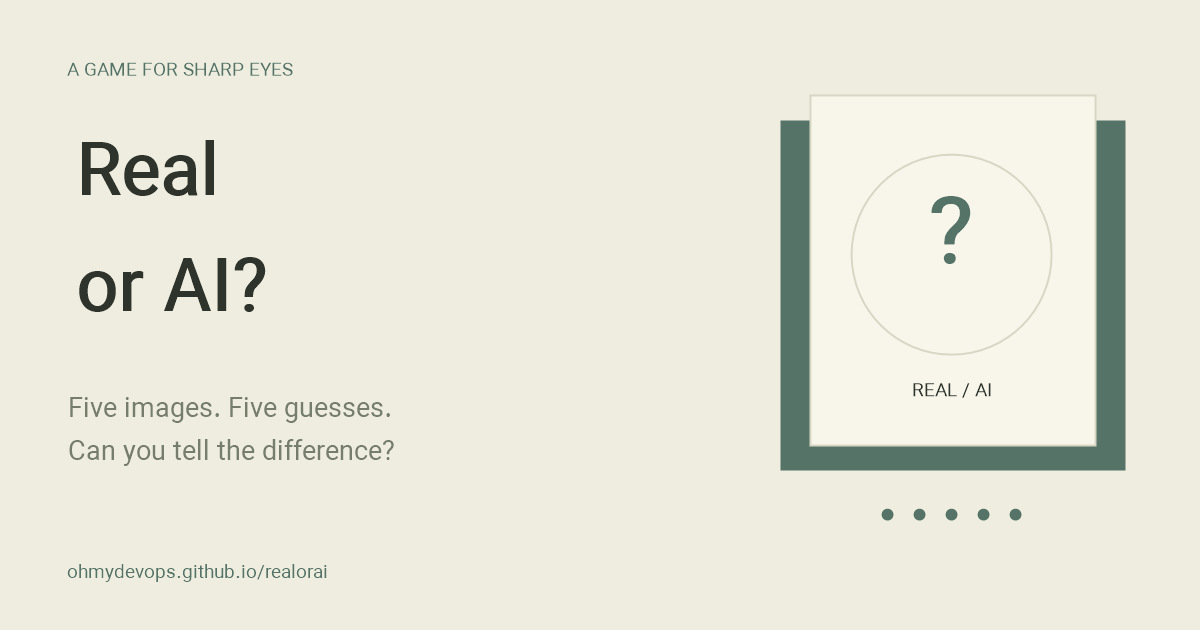
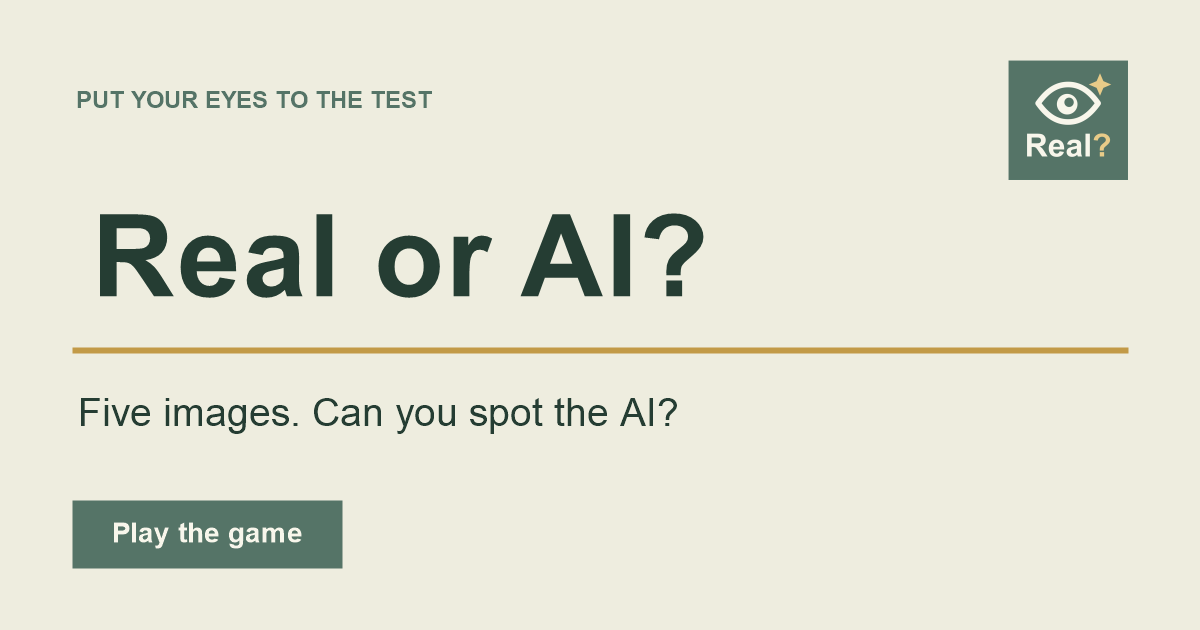
Improve sharing-card readability and remove unused code

diff --git a/public/translations.js b/public/translations.js
@@ -17,7 +17,6 @@ window.QUIZ_TRANSLATIONS = {
     start: 'Start game',
     round: 'Image',
     of: 'of',
-    question: 'Real or AI?',
     real: 'Real',
     ai: 'AI',
     loading: 'Loading image…',
@@ -25,8 +24,6 @@ window.QUIZ_TRANSLATIONS = {
     skip: 'Skip',
     failed: 'Image unavailable.',
     results: 'Your results',
-    chose: 'Your answer',
-    actual: 'Correct answer',
     correct: 'Correct',
     wrong: 'Incorrect',
     next: 'Next test',
@@ -59,7 +56,6 @@ window.QUIZ_TRANSLATIONS = {
     start: 'شروع بازی',
     round: 'عکس',
     of: 'از',
-    question: 'واقعی یا هوش مصنوعی؟',
     real: 'یَره ای واقعیه که',
     ai: 'به AI مُخُره به نَظَرُم',
     loading: 'عکس داره میاد…',
@@ -67,8 +63,6 @@ window.QUIZ_TRANSLATIONS = {
     skip: 'اینو رد کن',
     failed: 'ای عکس باز نشد.',
     results: 'چندتاشو درست زدی؟',
-    chose: 'پاسخ شما',
-    actual: 'پاسخ درست',
     correct: 'درست زدی',
     wrong: 'اشتباه زدی',
     next: 'یه دور دیگه',

diff --git a/public/sources/index.html b/public/sources/index.html
@@ -34,7 +34,7 @@
     <meta property="og:image:height" content="630" />
     <meta
       property="og:image:alt"
-      content="واقعیه یا هوش مصنوعیه؟ پنج تا عکس، پنج تا حدس، در کنار یک کارت با علامت سؤال."
+      content="واقعیه یا هوش مصنوعیه؟ عنوان درشت، نشان چشم و ستاره و دعوت به شروع بازی."
     />
     <meta name="twitter:card" content="summary_large_image" />
     <meta name="twitter:title" content="منبع عکسها | Real or AI?" />
@@ -48,7 +48,7 @@
     />
     <meta
       name="twitter:image:alt"
-      content="واقعیه یا هوش مصنوعیه؟ پنج تا عکس، پنج تا حدس، در کنار یک کارت با علامت سؤال."
+      content="واقعیه یا هوش مصنوعیه؟ عنوان درشت، نشان چشم و ستاره و دعوت به شروع بازی."
     />
     <link rel="icon" href="../favicon.svg" type="image/svg+xml" />
     <link rel="icon" href="../favicon-32.png" type="image/png" sizes="32x32" />

diff --git a/public/fa/index.html b/public/fa/index.html
@@ -67,7 +67,7 @@
     <meta property="og:image:height" content="630" />
     <meta
       property="og:image:alt"
-      content="واقعیه یا هوش مصنوعیه؟ پنج تا عکس، پنج تا حدس، در کنار یک کارت با علامت سؤال."
+      content="واقعیه یا هوش مصنوعیه؟ عنوان درشت، نشان چشم و ستاره و دعوت به شروع بازی."
     />
     <meta name="twitter:card" content="summary_large_image" />
     <meta
@@ -84,7 +84,7 @@
     />
     <meta
       name="twitter:image:alt"
-      content="واقعیه یا هوش مصنوعیه؟ پنج تا عکس، پنج تا حدس، در کنار یک کارت با علامت سؤال."
+      content="واقعیه یا هوش مصنوعیه؟ عنوان درشت، نشان چشم و ستاره و دعوت به شروع بازی."
     />
     <link rel="icon" href="../favicon.svg" type="image/svg+xml" />
     <link rel="icon" href="../favicon-32.png" type="image/png" sizes="32x32" />

diff --git a/public/index.html b/public/index.html
@@ -67,7 +67,7 @@
     <meta property="og:image:height" content="630" />
     <meta
       property="og:image:alt"
-      content="واقعیه یا هوش مصنوعیه؟ پنج تا عکس، پنج تا حدس، در کنار یک کارت با علامت سؤال."
+      content="واقعیه یا هوش مصنوعیه؟ عنوان درشت، نشان چشم و ستاره و دعوت به شروع بازی."
     />
     <meta name="twitter:card" content="summary_large_image" />
     <meta
@@ -84,7 +84,7 @@
     />
     <meta
       name="twitter:image:alt"
-      content="واقعیه یا هوش مصنوعیه؟ پنج تا عکس، پنج تا حدس، در کنار یک کارت با علامت سؤال."
+      content="واقعیه یا هوش مصنوعیه؟ عنوان درشت، نشان چشم و ستاره و دعوت به شروع بازی."
     />
     <link rel="icon" href="favicon.svg" type="image/svg+xml" />
     <link rel="icon" href="favicon-32.png" type="image/png" sizes="32x32" />

diff --git a/public/style.css b/public/style.css
@@ -93,9 +93,6 @@ a {
   font-size: 12px;
   text-decoration: none;
 }
-#theme-toggle {
-  font-size: 20px;
-}
 main {
   flex: 1;
   min-height: 0;
@@ -205,9 +202,6 @@ nav #settings-open {
   color: var(--muted);
   font-size: 13px;
   flex-shrink: 0;
-}
-#load-actions:empty {
-  display: none;
 }
 .image p {
   position: absolute;
@@ -330,6 +324,8 @@ a:focus-visible {
   flex-shrink: 0;
 }
 footer {
+  flex-wrap: wrap;
+  row-gap: 4px;
   width: calc(100% - 32px);
   max-width: 668px;
   margin-inline: auto;
@@ -531,11 +527,6 @@ dialog p {
   object-fit: cover;
   border-radius: 3px;
 }
-footer {
-  flex-wrap: wrap;
-  row-gap: 4px;
-}
-
 /* Keep the shared title and compact controls consistent across pages. */
 .brand {
   display: inline-flex;
@@ -606,9 +597,6 @@ nav #theme-toggle {
 @media (max-width: 380px) {
   header {
     gap: 8px;
-  }
-  header h1 {
-    font-size: 16px;
   }
 }
 @media (max-width: 600px) {

diff --git a/public/en/index.html b/public/en/index.html
@@ -67,7 +67,7 @@
     <meta property="og:image:height" content="630" />
     <meta
       property="og:image:alt"
-      content="Real or AI? Five images, five guesses, beside an illustrated question card."
+      content="Real or AI? A large title, an eye-and-sparkle logo, and an invitation to play."
     />
     <meta name="twitter:card" content="summary_large_image" />
     <meta name="twitter:title" content="Real or AI? | Five-image photo quiz" />
@@ -81,7 +81,7 @@
     />
     <meta
       name="twitter:image:alt"
-      content="Real or AI? Five images, five guesses, beside an illustrated question card."
+      content="Real or AI? A large title, an eye-and-sparkle logo, and an invitation to play."
     />
     <link rel="icon" href="../favicon.svg" type="image/svg+xml" />
     <link rel="icon" href="../favicon-32.png" type="image/png" sizes="32x32" />

diff --git a/public/en/sources/index.html b/public/en/sources/index.html
@@ -34,7 +34,7 @@
     <meta property="og:image:height" content="630" />
     <meta
       property="og:image:alt"
-      content="Real or AI? Five images, five guesses, beside an illustrated question card."
+      content="Real or AI? A large title, an eye-and-sparkle logo, and an invitation to play."
     />
     <meta name="twitter:card" content="summary_large_image" />
     <meta name="twitter:title" content="Image sources | Real or AI?" />
@@ -48,7 +48,7 @@
     />
     <meta
       name="twitter:image:alt"
-      content="Real or AI? Five images, five guesses, beside an illustrated question card."
+      content="Real or AI? A large title, an eye-and-sparkle logo, and an invitation to play."
     />
     <link rel="icon" href="../../favicon.svg" type="image/svg+xml" />
     <link

diff --git a/AGENTS.md b/AGENTS.md
@@ -34,4 +34,5 @@
 - Run `npm test` and `npm run format:check` after relevant changes. Visually verify layout changes at phone and desktop sizes. Use `npm run format` when needed.
 - Remove obsolete prototypes and duplicate output rather than maintaining several competing project directories.
 - At the end of each task, remove unnecessary scripts and temporary helpers. Keep finished assets, application scripts, tests, and required development configuration; do not retain one-time asset-generation or migration scripts.
+- Always remove confirmed dead code, unused translations and dependencies, and duplicate rules before finishing. Preserve compatibility code that still supports saved user data and work currently in use by another active chat.
 - Publish through the existing GitHub Pages workflow when requested. The user requested a one-time history reset for this cleanup; do not reset or force-push history again without a new explicit request.
